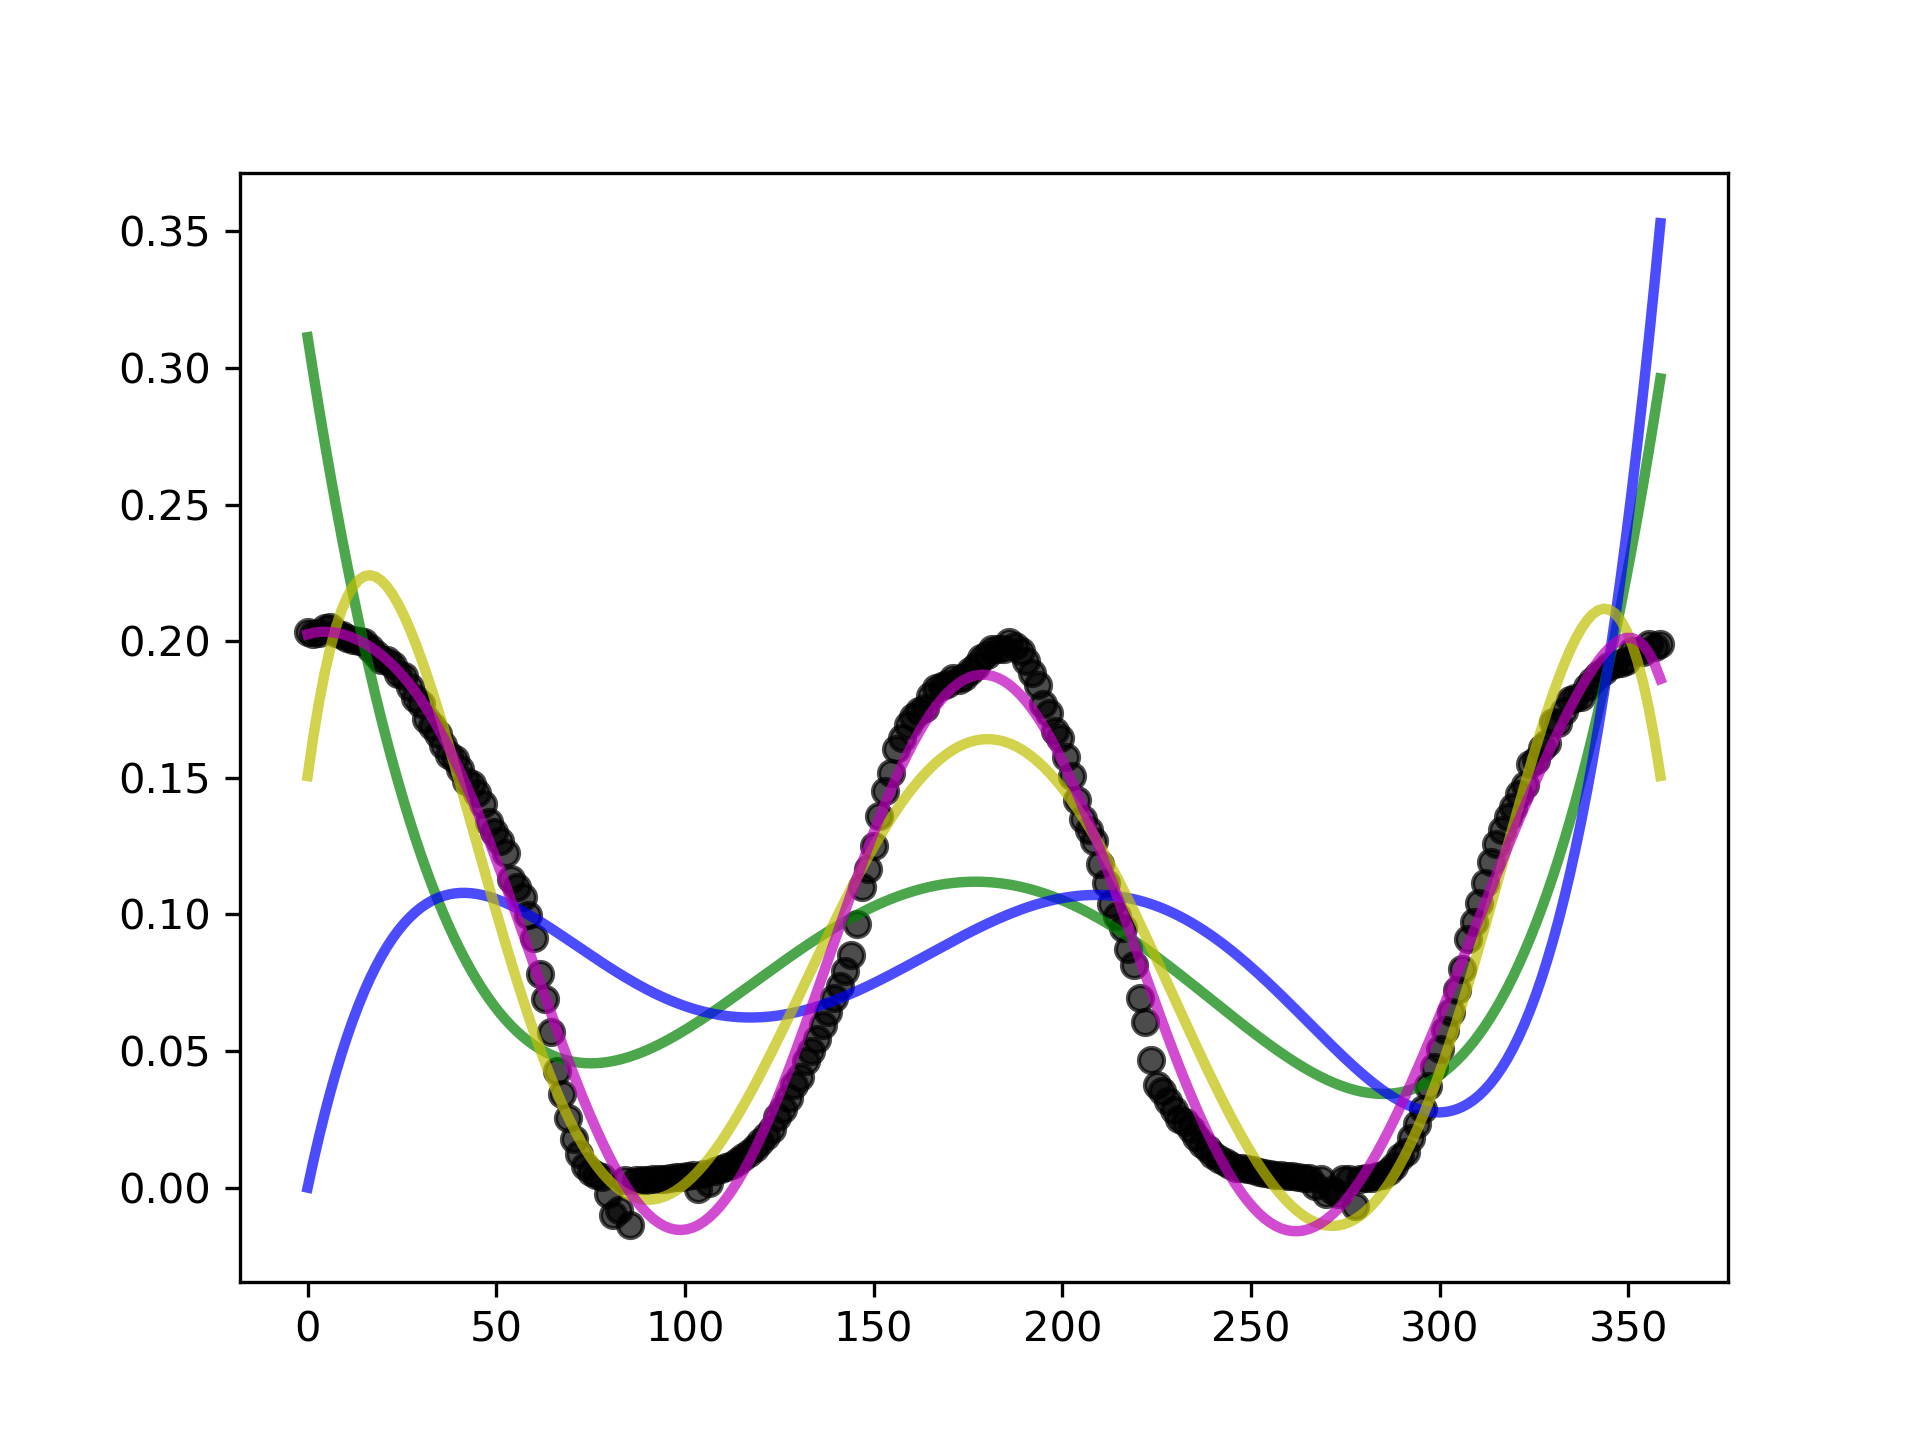
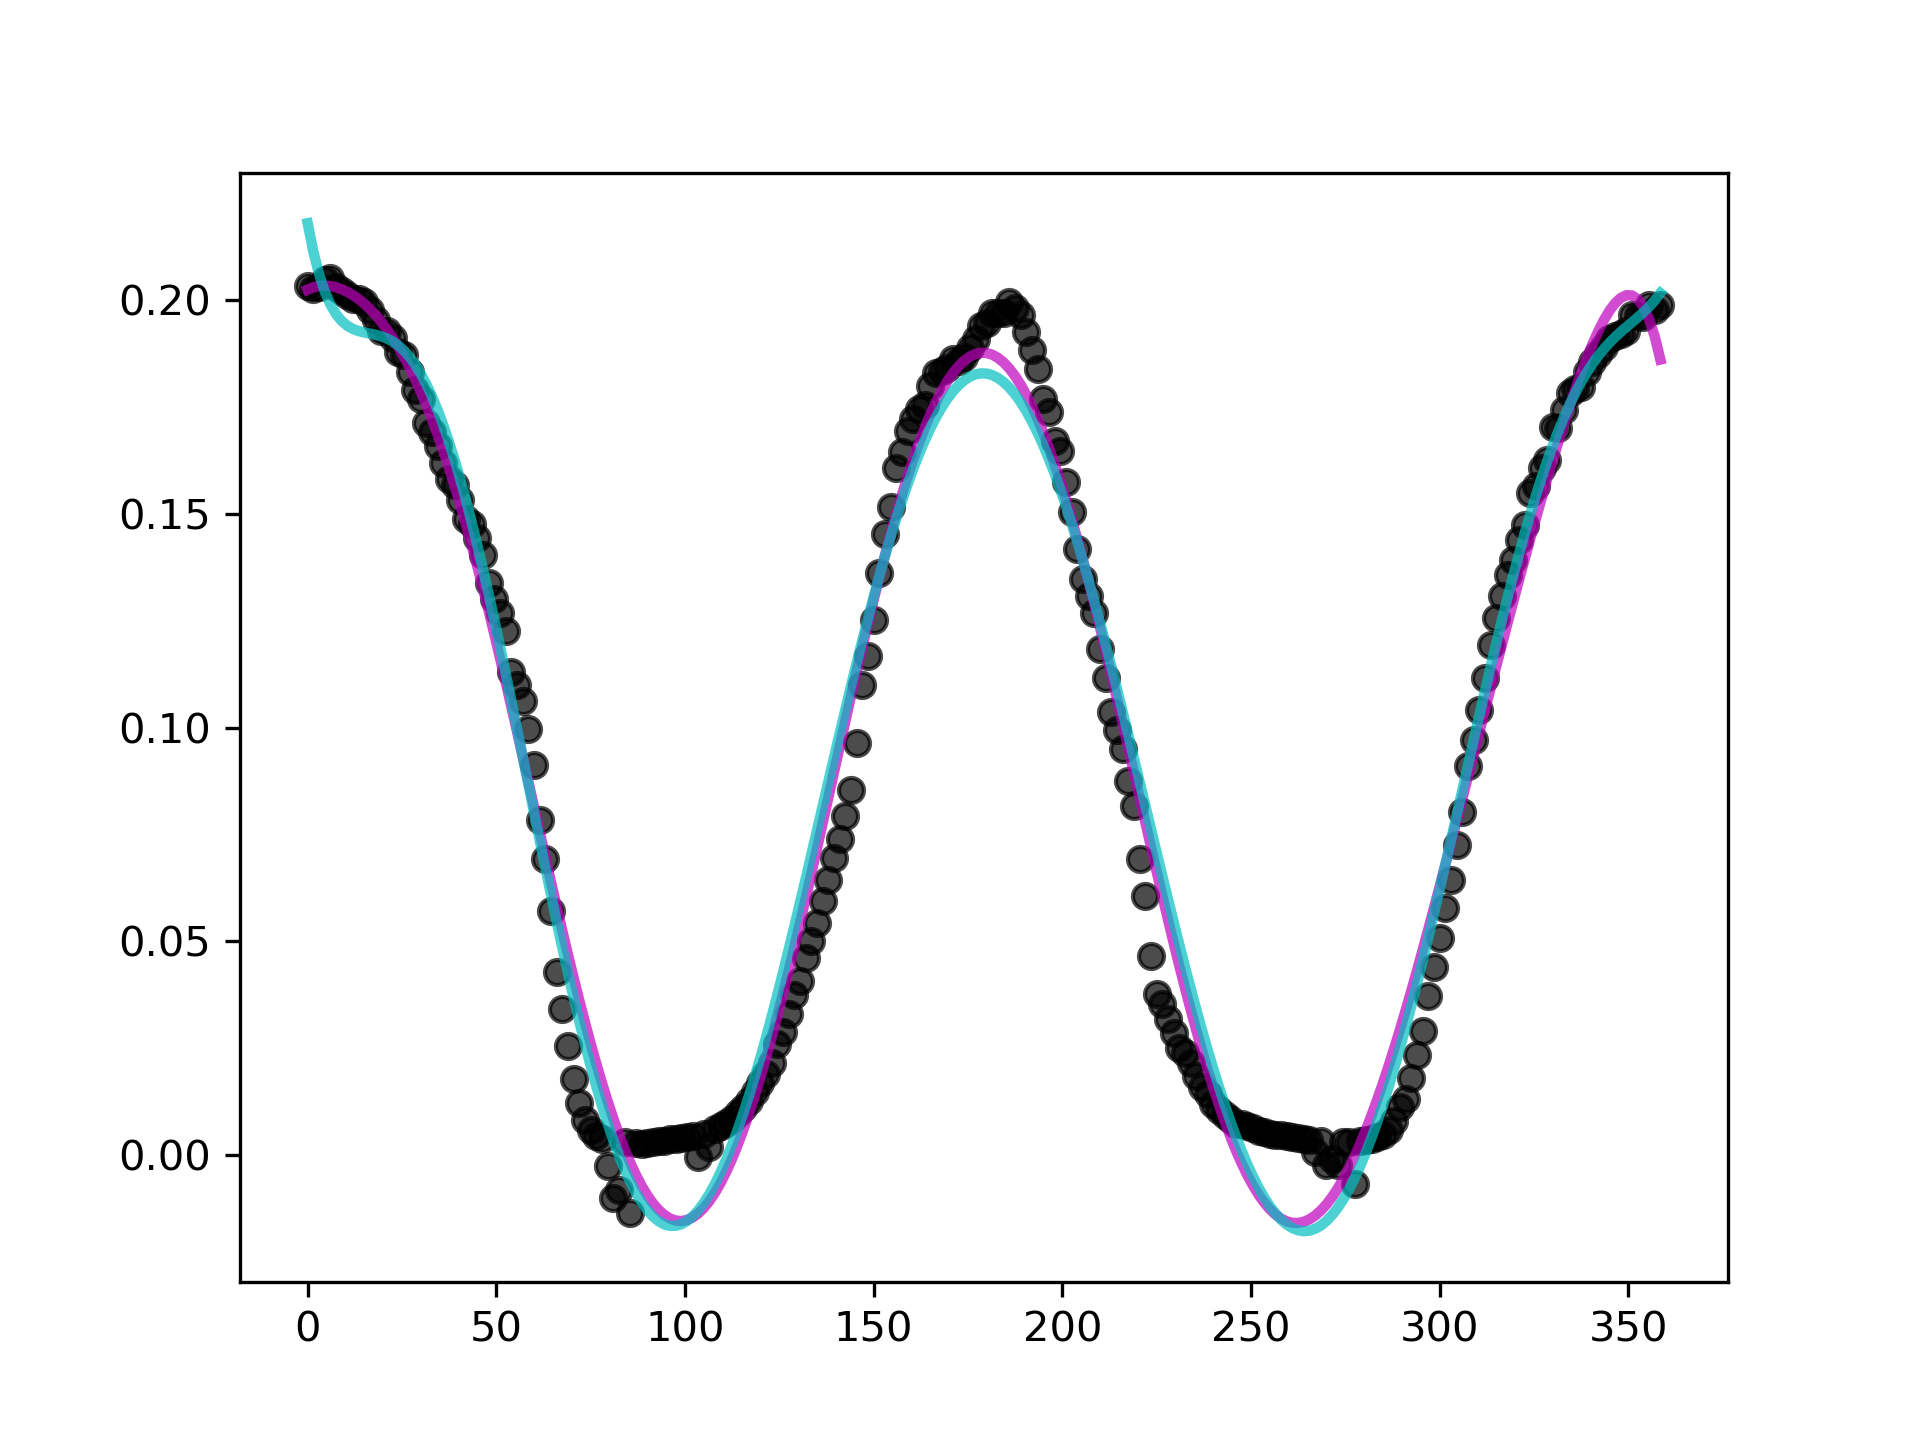
added static polynom fit. Working version.

diff --git a/gaussian_filter_application.py b/gaussian_filter_application.py
@@ -16,11 +16,12 @@ median_size=5
 parameter_set = (dir_source, sigma, median_size)
 
 
-def poly_X(x, *p):
+def polinomial(x, *p):
     poly = 0.
-    for i, n in enumerate(p):
-        poly += n * x ** i
+    for n, A in enumerate(p):
+        poly += A * x ** n
     return poly
+
 
 def func_8(x, params):
     n = 8
@@ -44,14 +45,6 @@ def func_5(x, params):
            params[4]*x**(n-4)+ params[n]
 
 
-
-
-def polynomial(x, *p):
-    """Polynomial fitting function of arbitrary degree."""
-    poly = 0.
-    for i, n in enumerate(p):
-        poly += n * x**i
-    return poly
 
 #def poly(x, params):
 #    return params[0]*x**3 + params[1]*x**2 + params[2]*x + params[3]
@@ -114,13 +107,60 @@ def rearrange_data(xdata):
 
 
 x, y = add_filter(*parameter_set)
-p0_4 = [1.0**(-5), -7.0**(-4), 0.01, -0.1, 0.3]
-p0_5 = [7.0**(-6), 5.0**(-5), 5.0**(-4), 1.0**(-3), 1.0**(-2), 1.0**(-1)]
-p0_6 = [-1.0**(-7), -5.0**(-4), 0.001, 0.001, 0.001, 0.001, 0.1]
-p0_7 = [-1.0**(-7), 1.0, 1.0, 1.0, 1.0, 1.0, 1.0, 0.1]
-p0_10 = [0.1, 0.1, 0.1, 0.1, 0.1, 0.1, 0.1, 0.1, 0.1, 0.1, 0.1]
+
+max_poly_size = np.arange(0, 16, 1)
+def arbitrary_poly(x, *params):
+    return sum([p*(x**i) for i, p in enumerate(params)])
+
+yfit = np.empty()
+for d in max_poly_size:
+    p0 = [1] * (d + 1)
+    popt, pcov = curve_fit(arbitrary_poly, x, y, p0=[1]*(d+1))
+    yfit = np.append(yfit, *popt, axis=0)
+
+    print('test')
+    #yfit[d] = arbitrary_poly(x, *popt)
 
 
+
+
+
+#p0_4 = [1.0**(-5), -7.0**(-4), 0.01, -0.1, 0.3]
+#p0_5 = [7.0**(-6), 5.0**(-5), 5.0**(-4), 1.0**(-3), 1.0**(-2), 1.0**(-1)]
+#p0_6 = [-1.0**(-7), -5.0**(-4), 0.001, 0.001, 0.001, 0.001, 0.1]
+#p0_7 = [-1.0**(-7), 1.0, 1.0, 1.0, 1.0, 1.0, 1.0, 0.1]
+#p0_10 = [0.1, 0.1, 0.1, 0.1, 0.1, 0.1, 0.1, 0.1, 0.1, 0.1, 0.1]
+
+#max_poly_size = np.arange(0, 16, 1)
+#coeffs_ = []
+#var_matrix_ = []
+
+
+
+
+
+#for i in max_poly_size:
+#    p0 = np.full(i, 0.1)
+#    if p0.size < 1:
+#        pass
+#    else:
+#        popt, pcov = curve_fit(polinomial, x, y, p0=p0)
+#        print(popt)
+
+#for j in popt:
+#    coeffs_[i] = popt[j]
+#    coeffs_ = np.array(coeffs_)
+
+
+
+
+
+
+
+
+
+
+'''
 coeffs4, var_matrix4 = curve_fit(poly4, x, y, p0=p0_4)
 coeffs5, var_matrix5 = curve_fit(poly5, x, y, p0=p0_5)
 coeffs6, var_matrix6 = curve_fit(poly6, x, y, p0=p0_6)
@@ -128,68 +168,28 @@ coeffs7, var_matrix7 = curve_fit(poly7, x, y, p0=p0_7)
 coeffs10, var_matrix10 = curve_fit(poly10, x, y, p0=p0_10)
 
 
-yfit4 = poly4(x, *coeffs4)
+yfit[i] = poly4(x, *coeffs4)
 yfit5 = poly5(x, *coeffs5)
 yfit6 = poly6(x, *coeffs6)
 yfit7 = poly7(x, *coeffs7)
 yfit10 = poly10(x, *coeffs10)
+yfit20 = polinomial(x, *coeffs_)
+'''
 
-
-#x, y = rearrange_data(plot_values)
-#fit_values = polynom_fit(x, y)
-#coeffs7 = np.polynomial.polynomial.polyfit(x, y, 7)
-#coeffs7 = np.polyfit(x, y, 7, full=True)
-#parameter8 = np.polyfit(x, y, 8)
-#parameter6 = np.polyfit(x, y, 6)
-#parameter5 = np.polyfit(x, y, 5)
 
 color = ['r', 'g', 'b', 'k', 'y', 'm', 'c']
 linewidth = 2.5
 plt.scatter(x, y, marker='o', color='black', alpha=0.7, label='data')
-plt.plot(x, yfit4, c=color[1], linestyle='-', linewidth=linewidth, alpha=0.7, label='$x^{4}$')
-plt.plot(x, yfit5, c=color[2], linestyle='-', linewidth=linewidth, alpha=0.7, label=r'$x^{5}$')
-#plt.plot(x, yfit6, c=color[3], linestyle='-', linewidth=linewidth, alpha=0.7, label='$x^{6}$')
-plt.plot(x, yfit7, c=color[4], linestyle='-', linewidth=linewidth, alpha=0.7, label=r'$x^{7}$')
-plt.plot(x, yfit10, c=color[5], linestyle='-', linewidth=linewidth, alpha=0.7, label=r'$x^{10}$')
-#plt.plot(x, yfit_, color='black', linestyle='--', linewidth=2.5, alpha=0.7, label=r'$x^{222}$')
-#plt.plot(x, func_5(x, parameter5), color='blue', linestyle='-', linewidth=2.5, alpha=0.7, label=r'$x^{5}$')
-#plt.plot(x, y, color='purple', linestyle='-', linewidth=2.5, alpha=0.7, label=r'data')
+for i in max_poly_size:
+    plt.plot(x, yfit[i], c=color[1], linestyle='-', linewidth=linewidth, alpha=0.7, label='$x^{}$'.format(i))
+
+#plt.plot(x, yfit5, c=color[2], linestyle='-', linewidth=linewidth, alpha=0.7, label=r'$x^{5}$')
+#plt.plot(x, yfit7, c=color[4], linestyle='-', linewidth=linewidth, alpha=0.7, label=r'$x^{7}$')
+#plt.plot(x, yfit10, c=color[5], linestyle='-', linewidth=linewidth, alpha=0.7, label=r'$x^{10}$')
+#plt.plot(x, yfit20, c=color[6], linestyle='-', linewidth=linewidth, alpha=0.7, label=r'$x^{20}$')
+
 plt.savefig('min_values_sigma{}_median{}.png'.format(sigma, median_size), dpi=300)
 plt.legend()
 plt.xlabel('angle in (°)')
 plt.ylabel('Min. value of the intensity + fits')
 plt.show()
-
-
-
-'''
-y_data, x_data = plot_values
-x = x_data[::step]
-y = y_data[::step]
-
-
-
-fit3 = np.polyfit(x, y, 3)
-fit4 = np.polyfit(x, y, 4)
-fit5 = np.polyfit(x, y, 5)
-fit6 = np.polyfit(x, y, 6)
-
-plt.scatter(x, y, marker='o', alpha=0.7, label='sigma ={} \n median size = {}'.format(sigma, median_size))
-#plt.plot(x, poly3(x, fit3), color='red', linestyle='-', linewidth=2.5, alpha=0.7, label=r'$x^{3}$')
-#plt.plot(x, poly4(x, fit4), color='orange', linestyle='-', linewidth=2.5, alpha=0.7, label=r'$x^{4}$')
-#plt.plot(x, poly5(x, fit5), color='blue', linestyle='-', linewidth=2.5, alpha=0.7, label=r'$x^{5}$')
-#plt.plot(x, poly6(x, fit6), color='purple', linestyle='-', linewidth=2.5, alpha=0.7, label=r'$x^{6}$')
-
-plt.title(r'Minimum(Intensity) as a function of the projection')
-plt.legend()
-plt.xlabel('x')
-plt.ylabel('Min. value of the intensity + fits')
-plt.savefig('min_values_develop_version_sigma{}_median{}.png'.format(sigma, median_size), dpi=300)
-plt.show()
-
-
-
-#poly3, poly4, poly5, poly6 = fit_values
-
-#plot_data(plot_values, fit_values)
-'''
